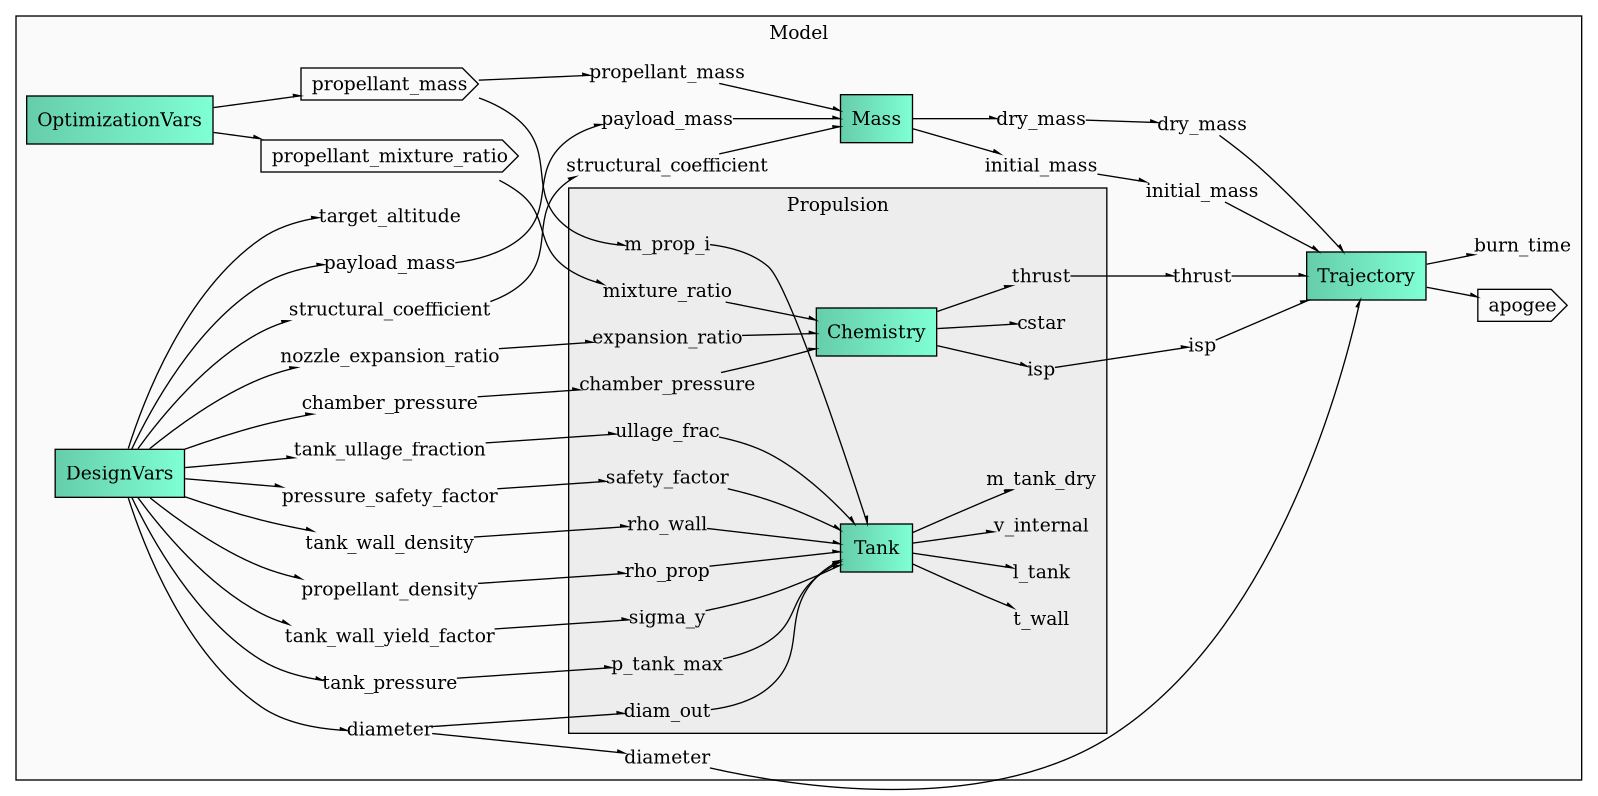
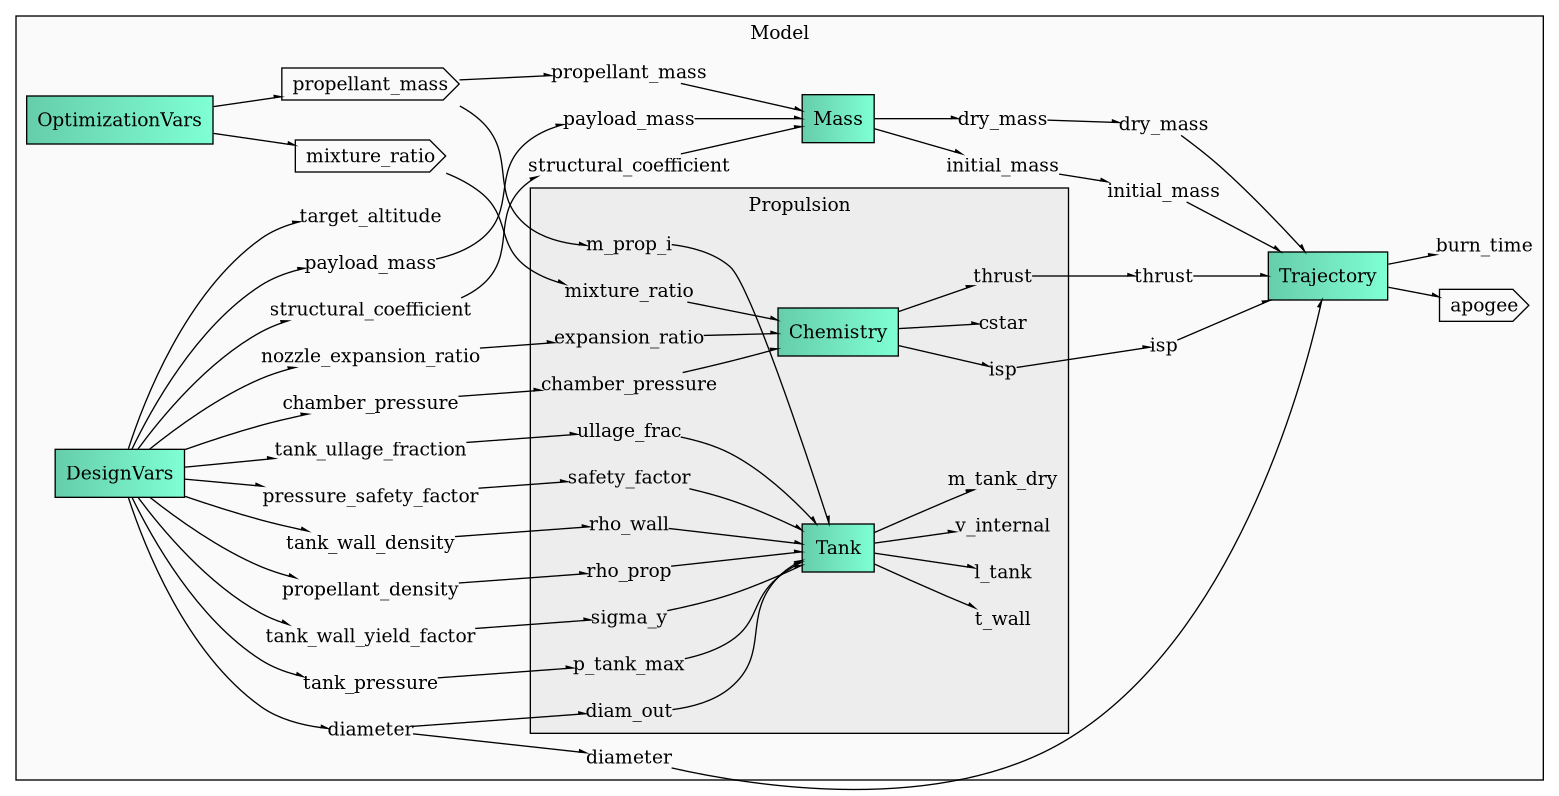
Slow and steady; reformatting the connections

diff --git a/modules/BEARS_Rocket/group_rocket.py b/modules/BEARS_Rocket/group_rocket.py
@@ -38,8 +38,8 @@ class RocketGroup(Group):
 
 		# OptimizationVars: specific parameters that we wish to optimize against
 		ovc = self.add_subsystem("OptimizationVars", IndepVarComp())
-		ovc.add_output("propellant_mass",          val=10.0, units="kg")
-		ovc.add_output("propellant_mixture_ratio", val=1.0)
+		ovc.add_output("propellant_mass", val=10.0, units="kg")
+		ovc.add_output("mixture_ratio",   val=1.0)
 		#endregion
 
 		#region Subsystems
@@ -55,43 +55,31 @@ class RocketGroup(Group):
 		#endregion
 
 		#region Connections
-		self.connect("DesignVars.diameter", "Trajectory.diameter")
-		self.connect("DesignVars.payload_mass", "Mass.payload_mass")
-		self.connect("DesignVars.tank_pressure", "Propulsion.Tank.p_tank_max")
-
-		self.connect(
-			"DesignVars.pressure_safety_factor",
-			"Propulsion.Tank.safety_factor"
-		)
-
-		self.connect("DesignVars.diameter", "Propulsion.diam_out")
-
-		self.connect("DesignVars.tank_ullage_fraction", "Propulsion.Tank.ullage_frac")
-		#self.connect("DesignVars.tank_safety_factor", "Propulsion.Tank.safety_factor")
+		# - Propulsion
+		self.connect("DesignVars.tank_pressure",          "Propulsion.Tank.p_tank_max")
+		self.connect("DesignVars.pressure_safety_factor", "Propulsion.Tank.safety_factor")
+		self.connect("DesignVars.diameter",               "Propulsion.diam_out")
+		self.connect("DesignVars.tank_ullage_fraction",   "Propulsion.Tank.ullage_frac")
 		self.connect("DesignVars.tank_wall_yield_factor", "Propulsion.Tank.sigma_y")
-		self.connect("DesignVars.tank_wall_density", "Propulsion.Tank.rho_wall")
-		self.connect("DesignVars.propellant_density", "Propulsion.Tank.rho_prop")
+		self.connect("DesignVars.tank_wall_density",      "Propulsion.Tank.rho_wall")
+		self.connect("DesignVars.propellant_density",     "Propulsion.Tank.rho_prop")
 		self.connect("DesignVars.nozzle_expansion_ratio", "Propulsion.expansion_ratio")
-		self.connect("DesignVars.chamber_pressure", "Propulsion.chamber_pressure")
+		self.connect("DesignVars.chamber_pressure",       "Propulsion.chamber_pressure")
+
+		self.connect("OptimizationVars.propellant_mass",  "Propulsion.m_prop_i")
+
+		# - Mass
+		self.connect("DesignVars.payload_mass",           "Mass.payload_mass")
 		self.connect("DesignVars.structural_coefficient", "Mass.structural_coefficient")
 
-		self.connect(
-			"OptimizationVars.propellant_mass",
-			"Mass.propellant_mass"
-		)
+		self.connect("OptimizationVars.propellant_mass",  "Mass.propellant_mass")
+		self.connect("OptimizationVars.mixture_ratio",    "Propulsion.mixture_ratio")
 
-		self.connect(
-			"OptimizationVars.propellant_mass",
-			"Propulsion.m_prop_i"
-		)
+		# - Trajectory
+		self.connect("DesignVars.diameter", "Trajectory.diameter")
 
-		self.connect(
-			"OptimizationVars.propellant_mixture_ratio",
-			"Propulsion.mixture_ratio"
-		)
-
-		self.connect("Propulsion.isp",    "Trajectory.isp")
-		self.connect("Propulsion.thrust", "Trajectory.thrust")
-		self.connect("Mass.initial_mass", "Trajectory.initial_mass")
-		self.connect("Mass.dry_mass",     "Trajectory.dry_mass")
+		self.connect("Propulsion.isp",      "Trajectory.isp")
+		self.connect("Propulsion.thrust",   "Trajectory.thrust")
+		self.connect("Mass.initial_mass",   "Trajectory.initial_mass")
+		self.connect("Mass.dry_mass",       "Trajectory.dry_mass")
 		#endregion

diff --git a/solver.py b/solver.py
@@ -46,7 +46,7 @@ def main():
 	# Design variables
 	if opt_mr:
 		prob.model.add_design_var(
-			"OptimizationVars.propellant_mixture_ratio",
+			"OptimizationVars.mixture_ratio",
 			lower=1.0, upper=10.0, ref=2.0
 		)
 
@@ -74,7 +74,7 @@ def main():
 	prob.set_val("Propulsion.thrust", 3000.0)
 
 	# Optimization initial values
-	prob.set_val("OptimizationVars.propellant_mixture_ratio", 6.0)
+	prob.set_val("OptimizationVars.mixture_ratio", 6.0)
 	prob.set_val("OptimizationVars.propellant_mass", 30.0)
 
 	prob.run_driver()
@@ -84,7 +84,7 @@ def main():
 	print(f"m_prop:\t{prob.get_val('OptimizationVars.propellant_mass')[0]} kg")
 
 	if opt_mr:
-		print(f"MR:\t{prob.get_val('OptimizationVars.propellant_mixture_ratio')[0]}")
+		print(f"MR:\t{prob.get_val('OptimizationVars.mixture_ratio')[0]}")
 
 	print("\nResults:")
 	print(f"t_burn:\t{prob.get_val('burn_time')[0]} s")
